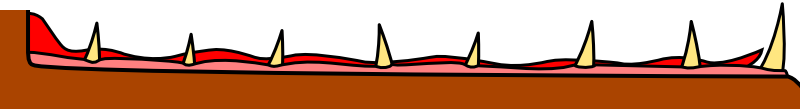
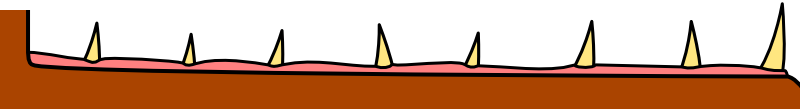
Tongue action! Awesome

Changed region(s): [[0.0312, 0.1101, 0.9688, 0.633]]

diff --git a/js/bigbadwolf.js b/js/bigbadwolf.js
@@ -1,6 +1,6 @@
 'use strict';
 
-var BigBadWolf = function(draw, roofMouth) {
+var BigBadWolf = function(draw, roofMouth, tongue) {
     this.draw = draw;
     //this.fullSprite = new Sprite( 800, 600, [ { ssx: 0, ssy: 0 } ], 1 );
 
@@ -31,7 +31,10 @@ var BigBadWolf = function(draw, roofMouth) {
 
     this.throat = new Sprite(104, 485, [ { ssx: 0, ssy: 0 } ], 6 );
 
+    this.tongueSprite = new Sprite(748, 130, [ { ssx: 0, ssy: 0 } ], 9 );
+
     this.roofMouth = roofMouth;
+    this.tongue = tongue;
 };
 
 BigBadWolf.prototype = {
@@ -47,6 +50,9 @@ BigBadWolf.prototype = {
         this.eyes.sprite.render( this.draw.ctx, this.eyes.x, this.headTop.y + this.eyes.y, false );
     },
     render2: function() {
+
+        this.tongueSprite.render( this.draw.ctx, 20, this.tongue.y - 58 , false );
+
         this.headBottom.render( this.draw.ctx, 0, 491, false );
 
         if ( this.headTop.y >= (this.headTop.yMax - 80) && this.headTop.y <= (this.headTop.yMax - 20) && this.headVelY > 0 ) {
@@ -77,6 +83,15 @@ BigBadWolf.prototype = {
         } else {
             this.roofMouth.isDeadly = false;
         }
+
+        // the tongue
+        if ( this.headVelY === -1 && this.roofMouth.y < 300 && this.tongue.y > 518) {
+            this.tongue.y--;
+        }
+        if ( this.headVelY === 1 && this.tongue.y < 561 ) {
+            this.tongue.y++;
+        }
+
         // shutdown the generators
         if ( this.headTop.y >= (this.headTop.yMax - 100) ) {
             this.toggleGenerators( true, generators );

diff --git a/js/game.js b/js/game.js
@@ -15,7 +15,7 @@ var Game = function() {
 
     this.boxes = [];
     this.boxes.push( new Box( this.draw, 0, 560, 800, 40, false ) );
-    this.boxes.push( new Box( this.draw, 95, 520, 3, 40, false ) );
+    this.boxes.push( new Box( this.draw, 95, 514, 3, 50, false ) );
     this.boxes.push( new Box( this.draw, 188, 525, 3, 40, false ) );
     this.boxes.push( new Box( this.draw, 278, 525, 3, 40, false ) );
     this.boxes.push( new Box( this.draw, 378, 525, 3, 40, false ) );
@@ -27,10 +27,12 @@ var Game = function() {
     this.boxes.push( new Box( this.draw, 0, 150, 30, 420, true ) );
 
     var wolfMouthRoof = new Box( this.draw, 0, 0, 1000, 80, false );
+    var wolfTongue = new Box( this.draw, 40, 560, 710, 80, false );
 
     this.boxes.push( wolfMouthRoof );
+    this.boxes.push( wolfTongue );
 
-    this.bigbadwolf = new BigBadWolf( this.draw, wolfMouthRoof );
+    this.bigbadwolf = new BigBadWolf( this.draw, wolfMouthRoof, wolfTongue );
 
     this.player = new Player( this.draw, this );
 
@@ -168,7 +170,8 @@ Game.prototype = {
                            "gums",
                            "throat",
                            "critters",
-                           "deadscreen"
+                           "deadscreen",
+                           "tongue"
                           ];
 
         var self = this;
